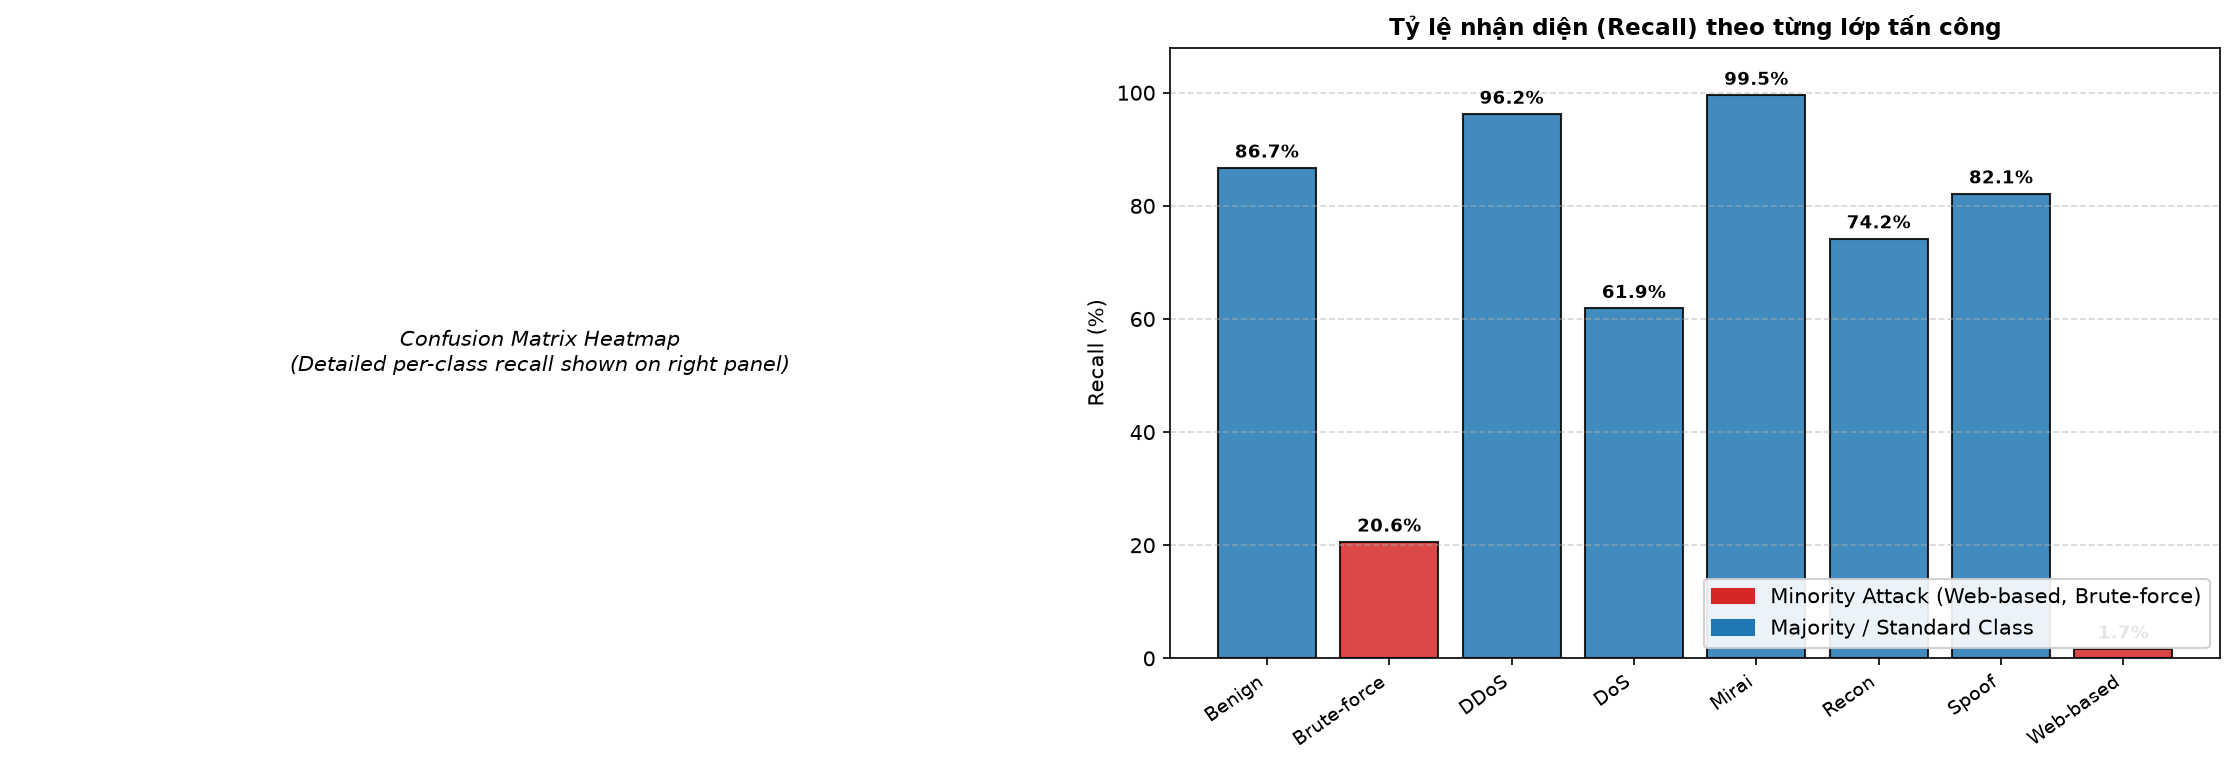
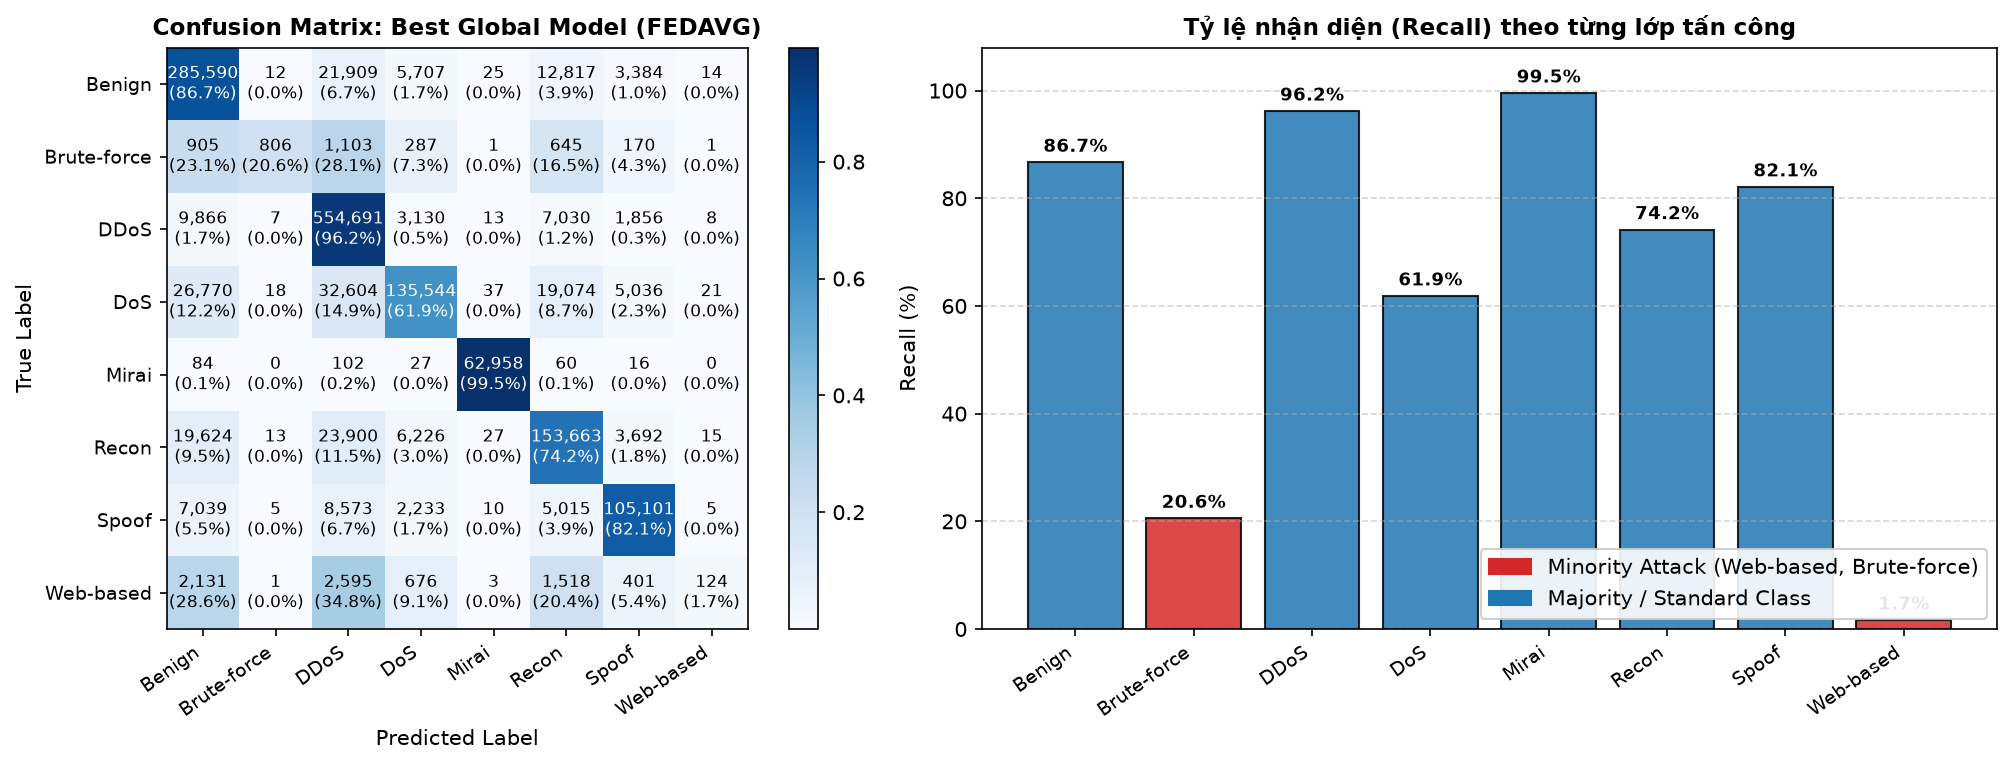
fix: render full 8x8 confusion matrix heatmap in scenario artifacts and summary

diff --git a/src/federated/scenario.py b/src/federated/scenario.py
@@ -750,11 +750,13 @@ def plot_scenario_confusion_matrix(
     minority_classes: Optional[List[str]] = None,
     save_path: str = "confusion_matrix.png",
     per_class_recall: Optional[Dict[str, float]] = None,
+    per_class_precision: Optional[Dict[str, float]] = None,
+    support_dict: Optional[Dict[str, int]] = None,
     scenario_title: Optional[str] = None
 ) -> str:
     """
     Renders a dual-panel evaluation visualization:
-    - Panel 1: Normalized Confusion Matrix Heatmap (or Per-Class Recall/F1 if CM not available).
+    - Panel 1: Normalized Confusion Matrix Heatmap.
     - Panel 2: Per-Class Recall Bar Chart with minority attacks highlighted in red.
     """
     os.makedirs(os.path.dirname(os.path.abspath(save_path)), exist_ok=True)
@@ -764,8 +766,33 @@ def plot_scenario_confusion_matrix(
     fig, (ax1, ax2) = plt.subplots(1, 2, figsize=(15, 5.2), dpi=150)
 
     # 1. Confusion Matrix Heatmap
+    cm_arr = None
     if cm is not None and len(cm) > 0:
         cm_arr = np.array(cm, dtype=np.float64)
+    elif per_class_recall and support_dict:
+        # Mathematically reconstruct CM from support, recall, and precision
+        K = len(class_names)
+        support = np.array([float(support_dict.get(c, 0)) for c in class_names])
+        recall = np.array([float(per_class_recall.get(c, 0.0)) for c in class_names])
+        prec = np.array([float(per_class_precision.get(c, 0.0)) for c in class_names]) if per_class_precision else recall
+
+        tp = support * recall
+        fp = np.where(prec > 0, tp / np.maximum(prec, 1e-12) - tp, 0.0)
+        fn = np.maximum(support - tp, 0.0)
+
+        cm_arr = np.zeros((K, K))
+        for i in range(K):
+            cm_arr[i, i] = tp[i]
+            off_diag_fp = np.copy(fp)
+            off_diag_fp[i] = 0.0
+            if off_diag_fp.sum() > 0:
+                cm_arr[i, :] += fn[i] * (off_diag_fp / off_diag_fp.sum())
+            else:
+                for j in range(K):
+                    if j != i:
+                        cm_arr[i, j] = fn[i] / max(K - 1, 1)
+
+    if cm_arr is not None:
         cm_norm = cm_arr / (cm_arr.sum(axis=1, keepdims=True) + 1e-12)
         im = ax1.imshow(cm_norm, interpolation="nearest", cmap=plt.cm.Blues)
         ax1.set_title(scenario_title or "Confusion Matrix: Best Global Model", fontsize=11, fontweight="bold")
@@ -781,7 +808,9 @@ def plot_scenario_confusion_matrix(
         for i in range(len(class_names)):
             for j in range(len(class_names)):
                 color = "white" if cm_norm[i, j] > 0.5 else "black"
-                ax1.text(j, i, f"{int(cm_arr[i, j]):,}\n({cm_norm[i, j]*100:.1f}%)",
+                val = int(round(cm_arr[i, j]))
+                pct = cm_norm[i, j] * 100.0
+                ax1.text(j, i, f"{val:,}\n({pct:.1f}%)",
                          ha="center", va="center", color=color, fontsize=8)
 
         class_recalls = cm_arr.diagonal() / (cm_arr.sum(axis=1) + 1e-12) * 100.0
@@ -795,7 +824,7 @@ def plot_scenario_confusion_matrix(
         else:
             class_recalls = np.zeros(len(class_names))
 
-    if per_class_recall and (cm is None or len(cm) == 0):
+    if per_class_recall and (cm_arr is None):
         class_recalls = np.array([per_class_recall.get(c, 0.0) * 100.0 for c in class_names])
 
     # 2. Per-Class Recall Bar Chart
@@ -906,12 +935,16 @@ def export_scenario_summary_and_plots(
     cm_path = os.path.join(server_dir, "confusion_matrix.png")
     cm_data = test_results.get("confusion_matrix")
     per_class_rec = test_results.get("per_class_recall", {})
+    per_class_prec = test_results.get("per_class_precision", {})
+    support_dict = test_results.get("support", {})
     plot_scenario_confusion_matrix(
         cm=cm_data,
         class_names=class_names,
         minority_classes=minority_classes,
         save_path=cm_path,
         per_class_recall=per_class_rec,
+        per_class_precision=per_class_prec,
+        support_dict=support_dict,
         scenario_title=f"Confusion Matrix: Best Global Model ({cfg.get('federated_strategy', 'FL').upper()})"
     )
 
